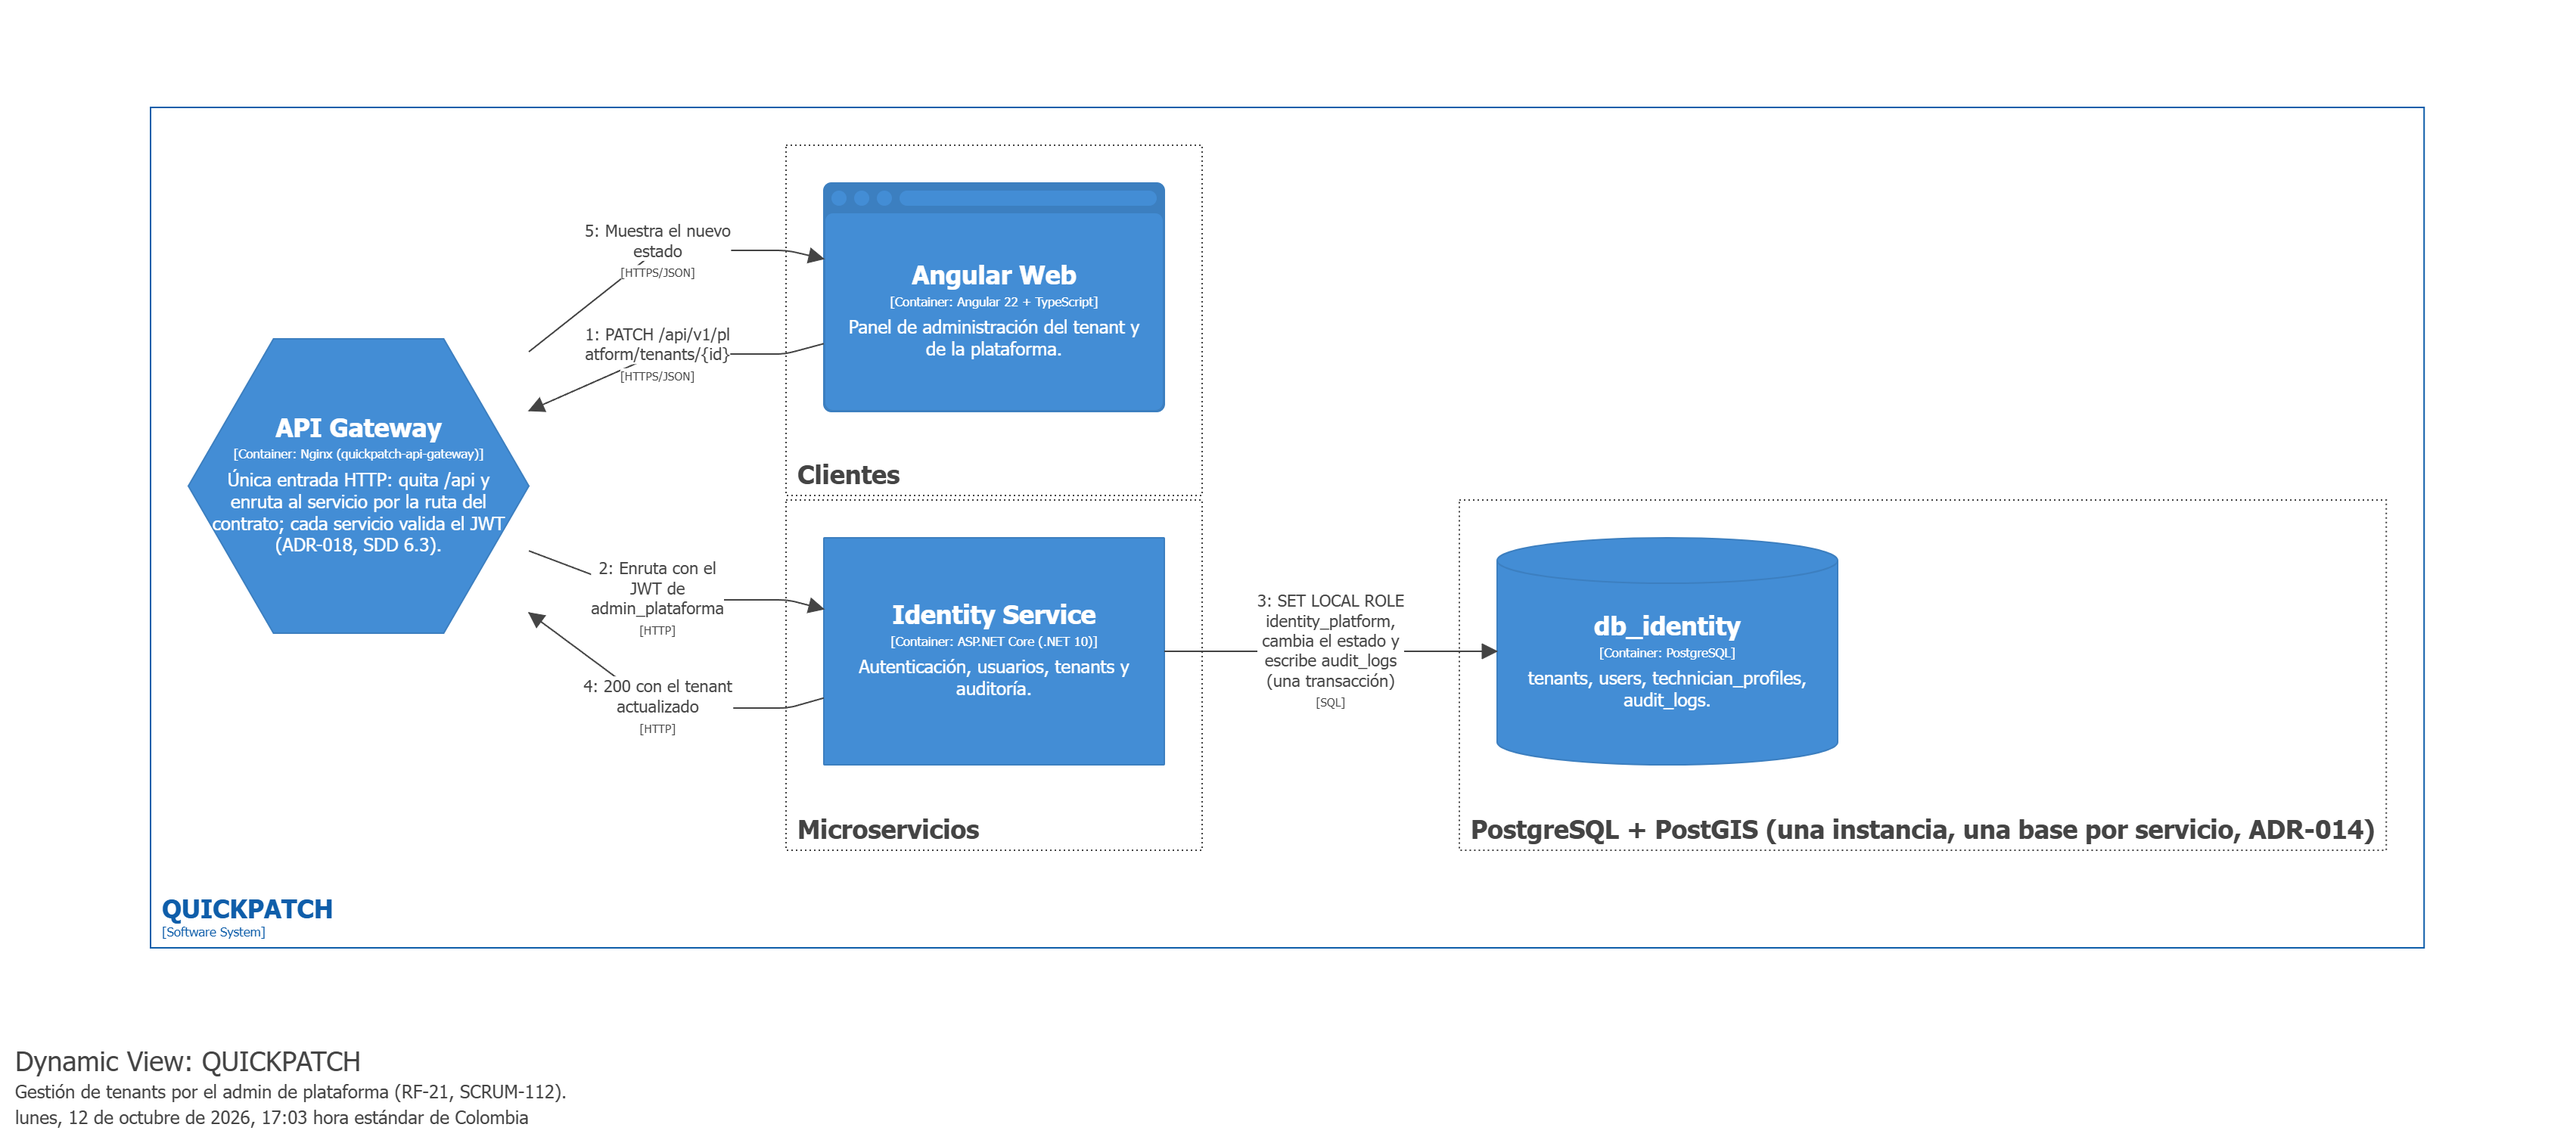
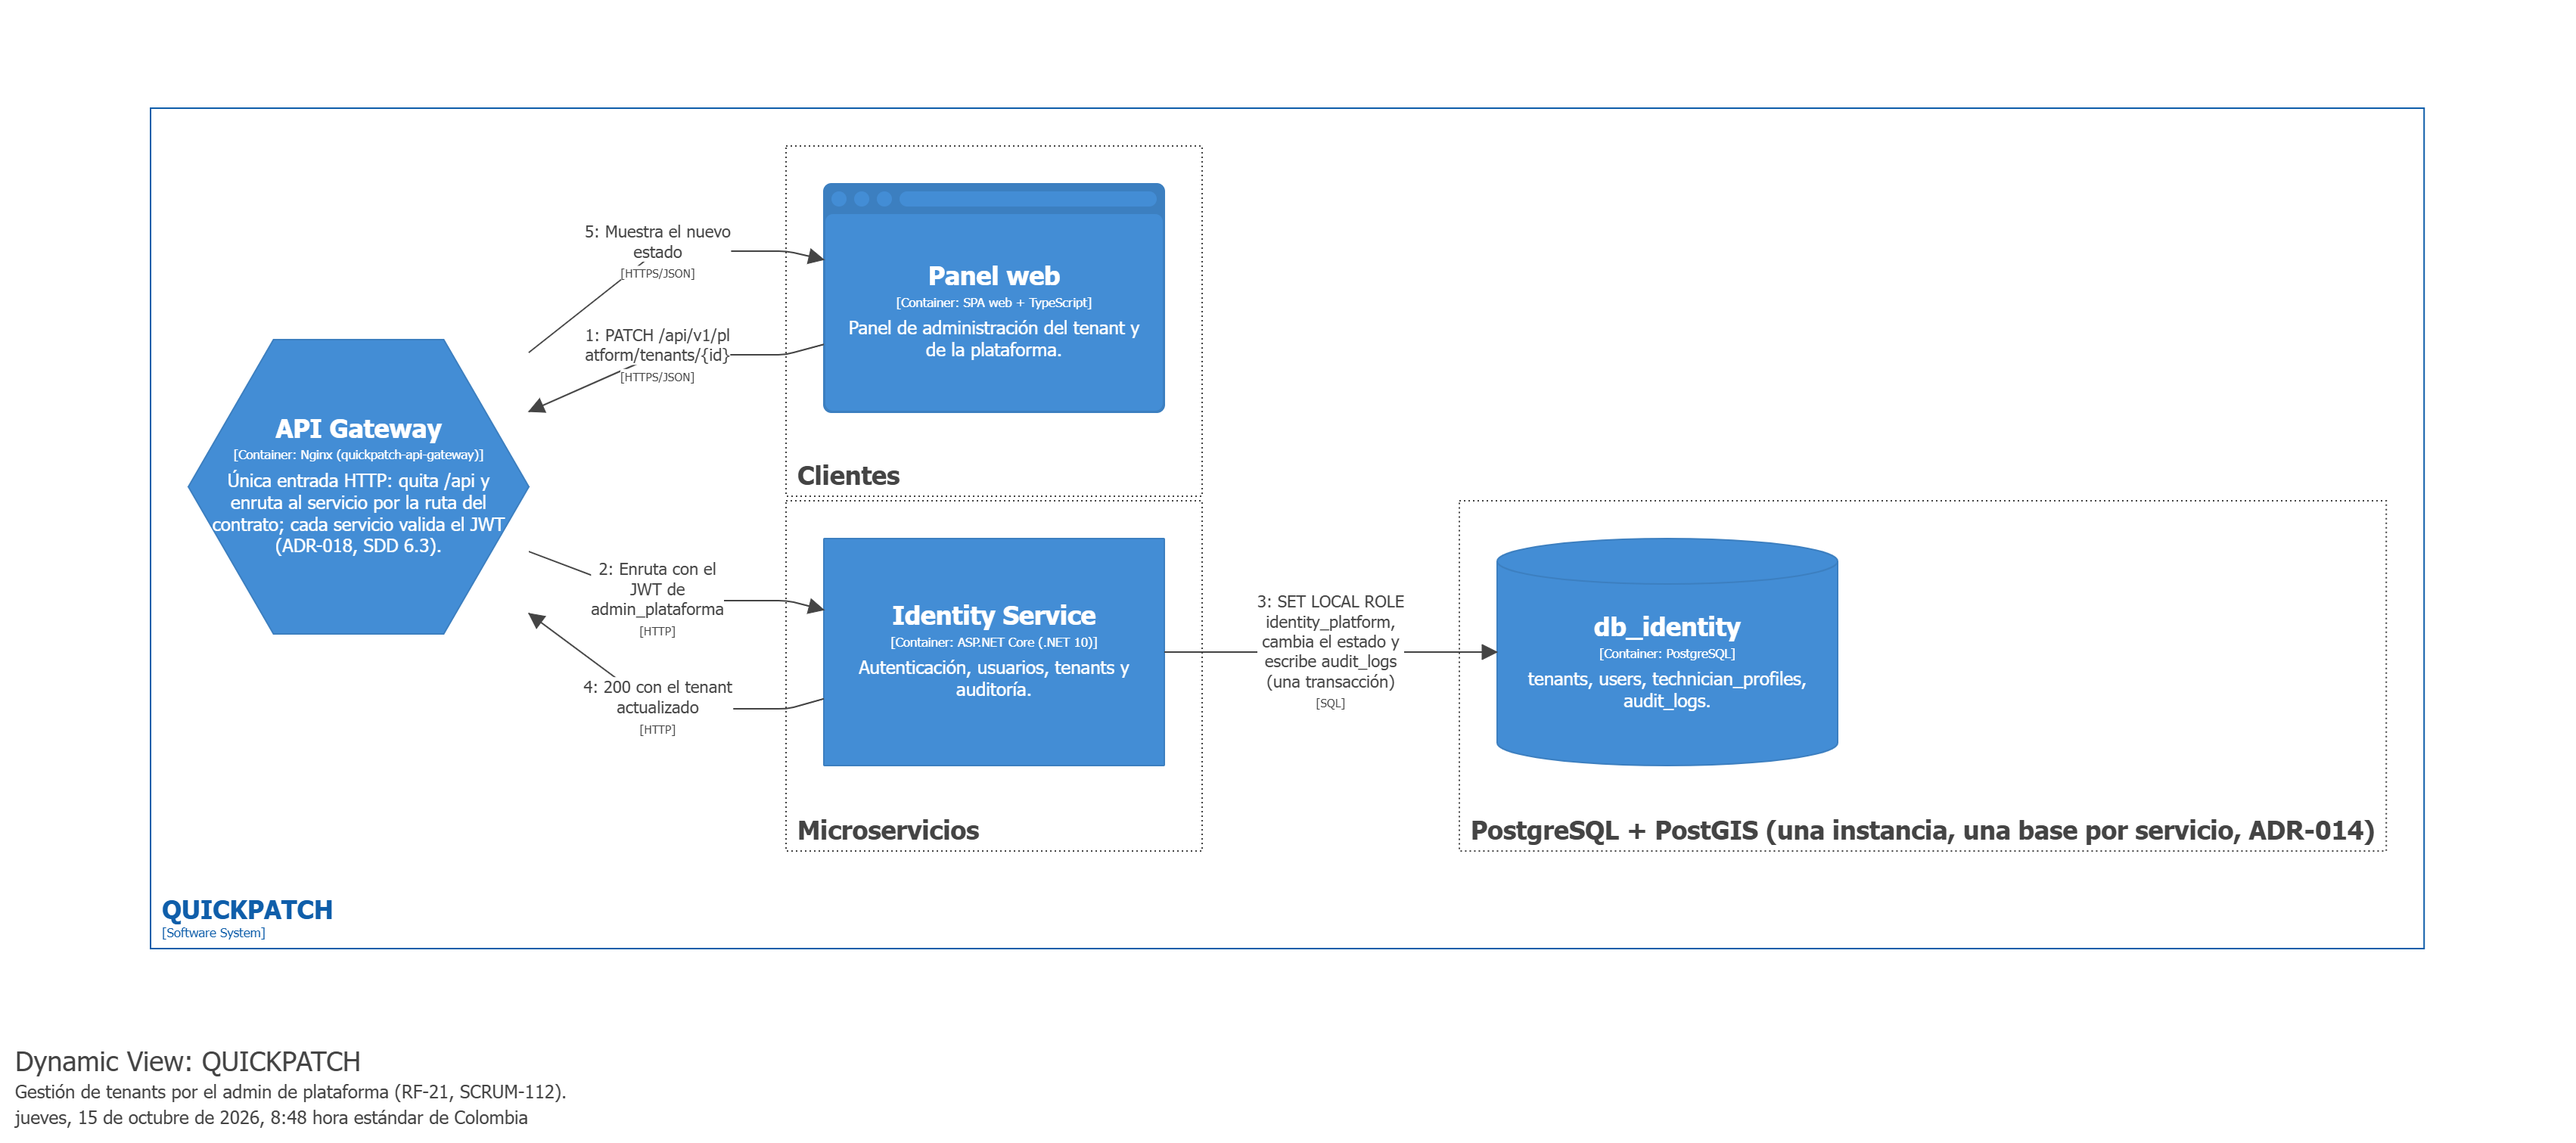
docs(c4): quitar Angular de los diagramas C4 (SCRUM-468)
Observación del profesor: los diagramas no amarran el diseño al framework.
- Componentes del panel: «Componente web», «Servicio web», «Enrutador
  web» y «SCSS» en vez de las etiquetas de Angular.
- El contenedor «Angular Web» pasa a «Panel web», con tecnología «SPA web
  + TypeScript», en contenedores, componentes, dinámicos y despliegue.
- SDD: el texto de contenedores y la Figura 8 usan el nombre nuevo;
  Angular queda nombrado solo en el texto.
- Figuras regeneradas: las 6 vistas que muestran el panel. Las de
  despliegue quedan además al día con el DSL de develop.

diff --git a/docs/architecture/SDD.md b/docs/architecture/SDD.md
@@ -133,7 +133,7 @@ La arquitectura se organiza por dominios y servicios. Los clientes acceden a tra
 
 Para que las capas se lean (personas, apps, gateway, servicios y almacenes), este diagrama no dibuja la entrega de correo y push del proveedor de notificaciones a las personas; esa entrega está en el diagrama de contexto (Figura 2) y en el dinámico de creación de solicitud.
 
-El diagrama muestra qué se ejecuta dentro del sistema y cómo se comunica, sin detalles de infraestructura física (ese nivel está en la sección 9.1). Cada cliente atiende a roles distintos (SRS, secciones 2.1 y 2.2; DD, `users.role` y RN-U6): Flutter Mobile es el canal de clientes, empresas cliente, técnicos y proveedores, y Angular Web es el panel de los dos administradores, el del tenant (`admin_tenant`, administra solo su tenant) y el de plataforma (`admin_plataforma`, administra los tenants). El proveedor del diagrama es el rol de usuario que administra un equipo de técnicos (RF-16); el proveedor de materiales o repuestos (`Supplier` en Actors Service) no es uno de los cinco roles del SRS y sigue siendo un concepto evolutivo (sección 6.5), por eso no aparece como persona. Ambos clientes entran por el API Gateway, que enruta por REST a los 8 microservicios.
+El diagrama muestra qué se ejecuta dentro del sistema y cómo se comunica, sin detalles de infraestructura física (ese nivel está en la sección 9.1). Cada cliente atiende a roles distintos (SRS, secciones 2.1 y 2.2; DD, `users.role` y RN-U6): Flutter Mobile es el canal de clientes, empresas cliente, técnicos y proveedores, y el Panel web (una SPA en Angular) es el de los dos administradores, el del tenant (`admin_tenant`, administra solo su tenant) y el de plataforma (`admin_plataforma`, administra los tenants). El proveedor del diagrama es el rol de usuario que administra un equipo de técnicos (RF-16); el proveedor de materiales o repuestos (`Supplier` en Actors Service) no es uno de los cinco roles del SRS y sigue siendo un concepto evolutivo (sección 6.5), por eso no aparece como persona. Ambos clientes entran por el API Gateway, que enruta por REST a los 8 microservicios.
 
 Cada microservicio tiene su propia base de datos dentro de una única instancia de PostgreSQL + PostGIS (ADR-014): el motor impide llaves foráneas y JOINs entre bases, y el costo es que la instancia es un punto único de falla (R10). Los servicios se integran entre sí por eventos en Kafka (Catalog publica `catalog.category-changed`; ServiceRequest, Matching, Ranking, Payments y Communication producen o consumen eventos, según la sección 8.6; Identity y Actors solo atienden REST), usan Redis como caché y Garage (S3) para las evidencias. Tres sistemas externos, tomados del SRS (RIE-01 a RIE-03): la pasarela de pagos PCI-DSS (Payments, con tokenización), el servicio de geocodificación, que convierte en coordenadas la dirección escrita por el cliente cuando no comparte su ubicación, y el proveedor de notificaciones. Con ADR-024 solo la pasarela es externa en el MVP: la geocodificación la hace ServiceRequest con un Nominatim propio (mapa de Bogotá, en la VM de datos de cada ambiente) y las notificaciones se entregan dentro de la app (canal de ADR-023 y buzón en Communication); correo y push quedan fuera del MVP. La cercanía entre la solicitud y los técnicos se calcula con PostGIS. El seguimiento en tiempo real de la solicitud (RF-11) usa un WebSocket desde las apps hasta Communication Service a través del API Gateway (`/v1/realtime`, ADR-023), con consulta del estado por REST cada 30 segundos como respaldo. El proveedor concreto de la pasarela de pagos no está definido.
 
@@ -301,9 +301,9 @@ El detalle definitivo de proyectos, carpetas y paquetes debe quedar sincronizado
 
 Estos diagramas abren los dos contenedores cliente de la Figura 3. Cada componente indica la carpeta del repositorio donde vive (sección 10.2) y corresponde al código de `develop`; los componentes con borde punteado están planeados.
 
-![Componentes de Angular Web](diagrams/c4/C4-04-Componentes-Web.png)
+![Componentes del Panel web](diagrams/c4/C4-04-Componentes-Web.png)
 
-**Figura 8. Componentes de Angular Web (C4 · Component). Vista `C4-04-Componentes-Web`.**
+**Figura 8. Componentes del Panel web (C4 · Component). Vista `C4-04-Componentes-Web`.**
 
 | Componente | Carpeta | Responsabilidad | HU |
 |---|---|---|---|
